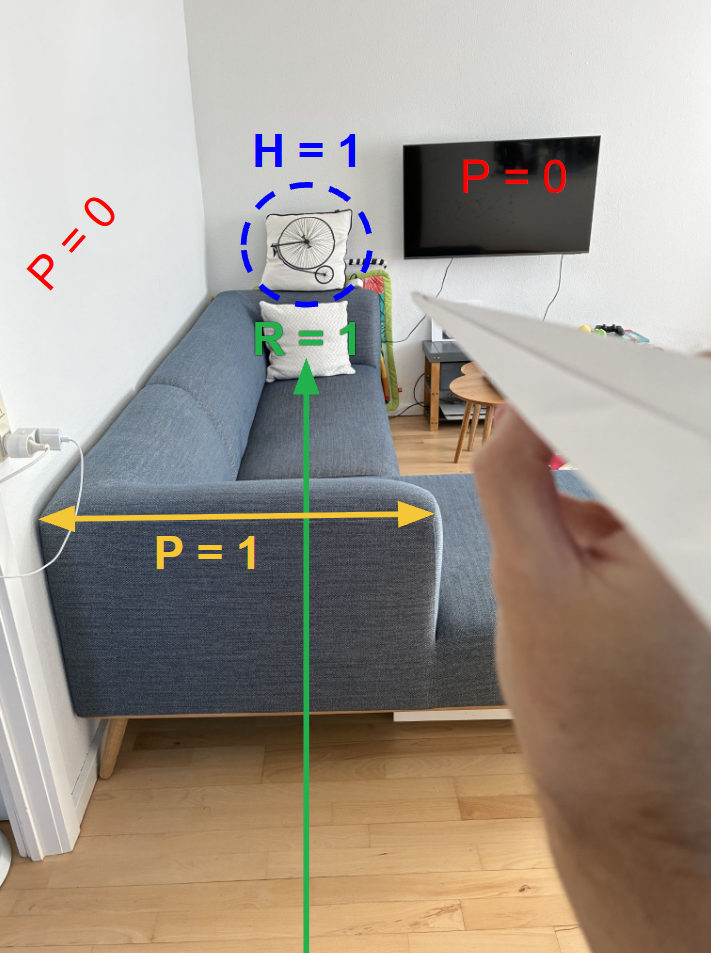
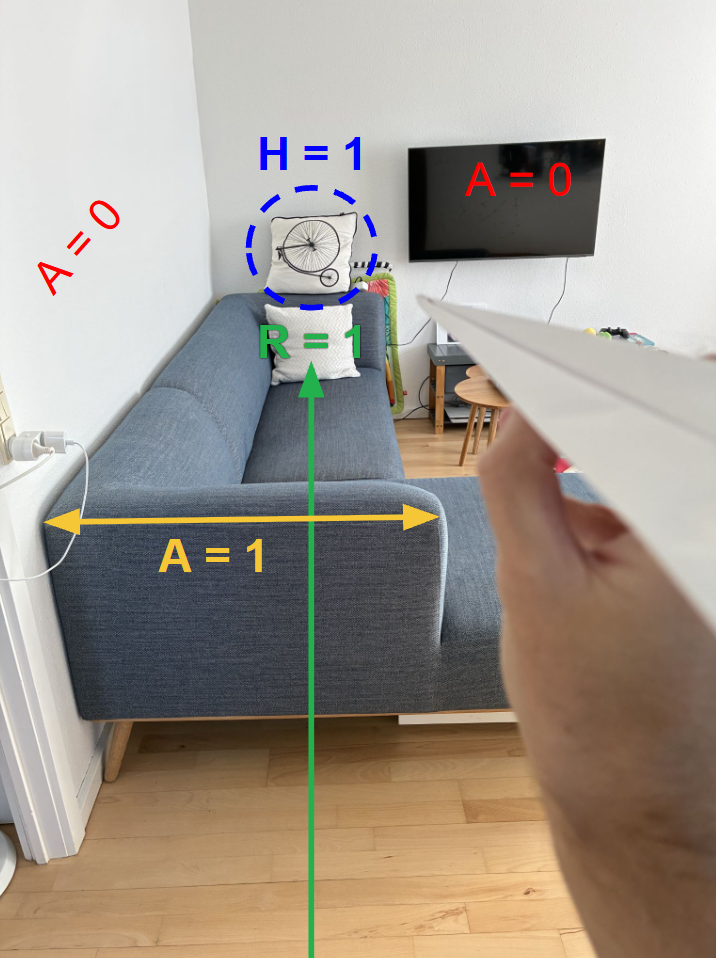
Edited the paperplanes project experimental design section.

diff --git a/_projects/paperplanes.md b/_projects/paperplanes.md
@@ -40,6 +40,15 @@ I quickly realized, that coming up with a proper experimental design (reducing v
 
 ## The experimental design
 
+I stand with my back to the dishwasher. In front of me is a sofa placed against a wall. At one end of the sofa, lying on the armrest, there is a pillow that serves as the target (right image below).
+
+I alternate between throwing the four paper airplanes: (large, small) × (unfolded, folded). See left image below. If the airplane hits/do not hit the target (H), a score of 1/0 is recorded. If the airplane have/do not have a range far enough to reach the target (R), a score of 1/0 is recorded. If the airplane lands within/outside the width of the sofa at the time of landing, it is considered accurate (A), and a score of 1/0 is recorded.
+
+The experiment is repeated 20 times for each plane.
+
+I throw from shoulder height and attempt to use the same force and arm movement for every throw. Prior to each throw, I count down from three before swining my arm forward towards the target.
+
+
 <figure style="text-align: center;">
 
   <div style="display: grid; grid-template-columns: 1fr 1fr; gap: 10px; align-items: center;">
